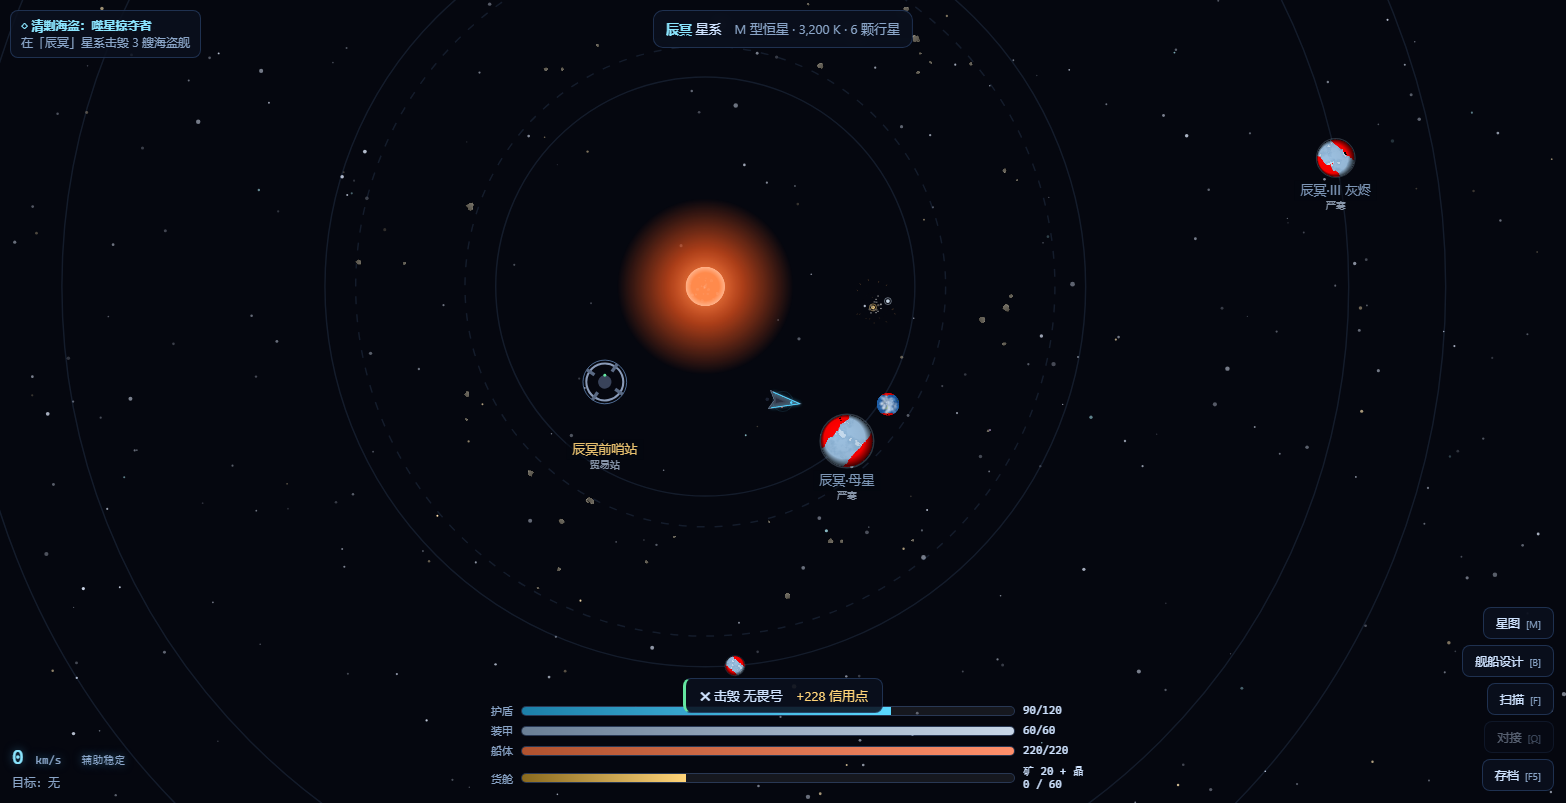
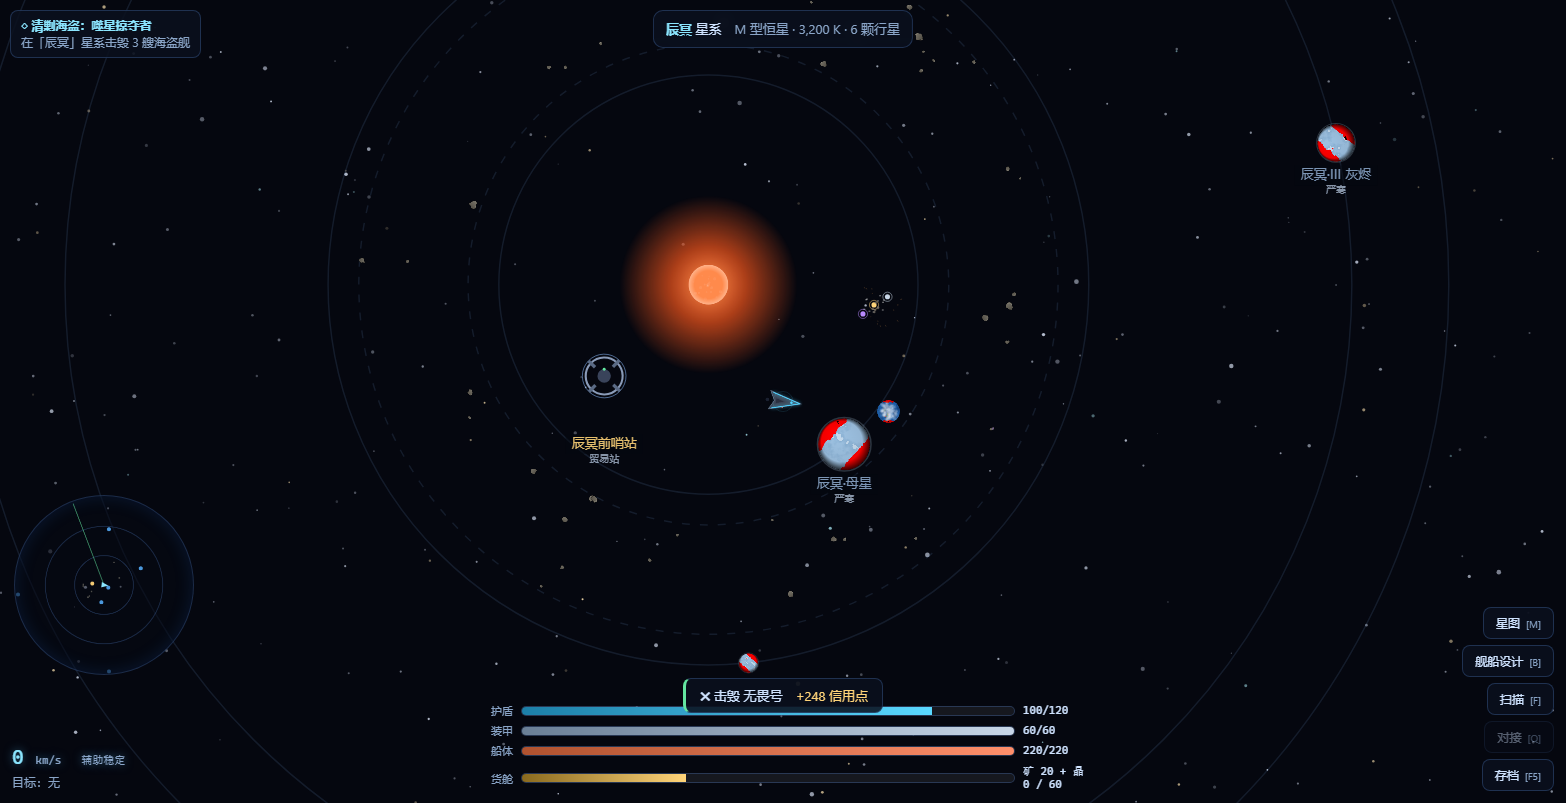
v1.1.1: 雷达小地图 + 海盗难度随科技成长；修复写入截断导致的 makeRockSprite 丢失回归

diff --git a/js/scenes/flight.js b/js/scenes/flight.js
@@ -134,6 +134,10 @@
       this.statsEl.appendChild(crow);
       this.statRefs.cargo = { fill: crow.querySelector('i'), val: crow.querySelector('.val') };
 
+      // 雷达小地图
+      this.radarCv = UI.el('radar');
+      this.radarCtx = this.radarCv ? this.radarCv.getContext('2d') : null;
+
       UI.clear(this.actionsEl);
       const acts = [
         ['星图', 'M', () => this.goMap()],
@@ -156,6 +160,7 @@
 
     showHUD(v) {
       ['hud-top', 'hud-left', 'hud-nav', 'hud-bottom', 'hud-actions'].forEach(id => UI.toggle(UI.el(id), v));
+      UI.toggle(UI.el('radar'), v);
       UI.hide(UI.el('center-progress'));
     }
 
@@ -199,6 +204,8 @@
       // 低血量红色暗角脉冲
       const vg = document.getElementById('vignette');
       if (vg) vg.style.opacity = ship.hp.hull < hmax * 0.32 ? (0.22 + 0.13 * Math.sin(this.t * 5)).toFixed(2) : '0';
+
+      this.drawRadar();
 
       // 顶部目标
       if (this.target && this.target.hp) {
@@ -579,7 +586,7 @@
           }
           // 海盗伏击
           if (this.gsys.danger > 0.2 && this.pirates.filter(x => x.hp.hull > 0).length < 5 && Math.random() < 0.3) {
-            const pk = S.Combat.makePirate(new S.Rand((Math.random() * 0xffffffff) >>> 0), this.pirates[0]?.faction || '碎星掠夺者', Math.min(3, this.p.techLevel));
+            const pk = S.Combat.makePirate(new S.Rand((Math.random() * 0xffffffff) >>> 0), this.pirates[0]?.faction || '碎星掠夺者', Math.max(1, Math.min(4, this.p.techLevel - 1)));
             pk.x = ship.x + M.randomRange(-600, 600); pk.y = ship.y + M.randomRange(-600, 600);
             pk.angle = Math.atan2(ship.y - pk.y, ship.x - pk.x);
             pk.ai = { state: 'hunt', strafe: 1, wander: 0, faction: pk.faction };
@@ -1183,7 +1190,7 @@
       if (this.target && this.target.isPlanet && this.target.ref === p) {
         ctx.strokeStyle = 'rgba(77,210,255,0.8)';
         ctx.lineWidth = 2;
-        ctx.setLineDash([10, 6]);
+        ctx.setLineDash([10 / zoom, 6 / zoom]);
         ctx.beginPath(); ctx.arc(x, y, R + 12, 0, M.TAU); ctx.stroke();
         ctx.setLineDash([]);
       }
@@ -1201,7 +1208,7 @@
 
     /** 小行星精灵预烘焙（避免每帧重建多边形路径，低配机收益大） */
     makeRockSprite(pts, size, rare) {
-      const res = 2; // 2x 烘焙：缩小绘制开销与内存，画质对小行星足够
+      const res = 2;
       const half = Math.ceil(size * 1.35 * res) + 2;
       const s = document.createElement('canvas');
       s.width = s.height = half * 2;
@@ -1381,6 +1388,60 @@
         ctx.restore();
         ctx.globalAlpha = 1;
       }
+    }
+
+    /** 雷达小地图 */
+    drawRadar() {
+      const rc = this.radarCtx;
+      if (!rc) return;
+      const W = 360, R = W / 2;
+      const range = 3200;
+      rc.clearRect(0, 0, W, W);
+      rc.strokeStyle = 'rgba(90,140,220,0.25)';
+      rc.lineWidth = 2;
+      rc.beginPath(); rc.arc(R, R, R * 0.66, 0, M.TAU); rc.stroke();
+      rc.beginPath(); rc.arc(R, R, R * 0.33, 0, M.TAU); rc.stroke();
+      // 扫描线
+      const sweep = (this.t * 1.1) % M.TAU;
+      rc.strokeStyle = 'rgba(99,230,160,0.5)';
+      rc.beginPath(); rc.moveTo(R, R); rc.lineTo(R + Math.cos(sweep) * (R - 4), R + Math.sin(sweep) * (R - 4)); rc.stroke();
+      const dot = (wx, wy, color, r2) => {
+        let dx = (wx - this.ship.x) / range * R, dy = (wy - this.ship.y) / range * R;
+        const dd = Math.hypot(dx, dy);
+        let alpha = 0.95;
+        if (dd > R - 5) { dx *= (R - 5) / dd; dy *= (R - 5) / dd; alpha = 0.4; }
+        rc.globalAlpha = alpha;
+        rc.fillStyle = color;
+        rc.beginPath(); rc.arc(R + dx, R + dy, r2, 0, M.TAU); rc.fill();
+        rc.globalAlpha = 1;
+      };
+      for (const p of this.sys.planets) {
+        const wp = this.planetWorldPos(p);
+        dot(wp.x, wp.y, p.isGas ? '#6a8ac8' : '#4fa0e8', p.isGas ? 6 : 4);
+      }
+      const stn = this.sys.station;
+      const sa2 = stn.angle + S.G.time * stn.orbitSpeed;
+      dot(Math.cos(sa2) * stn.orbitRadius, Math.sin(sa2) * stn.orbitRadius, '#ffd479', 4);
+      if (this.rocks.length) {
+        rc.fillStyle = 'rgba(150,145,130,0.5)';
+        for (let i = 0; i < this.rocks.length; i += 6) {
+          const rk = this.rocks[i];
+          if (rk.ore <= 0) continue;
+          const dx = (rk.x - this.ship.x) / range * R, dy = (rk.y - this.ship.y) / range * R;
+          if (dx * dx + dy * dy > (R - 5) * (R - 5)) continue;
+          rc.fillRect(R + dx - 1.5, R + dy - 1.5, 3, 3);
+        }
+      }
+      for (const pk of this.pirates) {
+        if (pk.hp.hull <= 0) continue;
+        dot(pk.x, pk.y, '#ff5a68', 5);
+      }
+      rc.save();
+      rc.translate(R, R);
+      rc.rotate(this.ship.angle);
+      rc.fillStyle = '#8be6ff';
+      rc.beginPath(); rc.moveTo(9, 0); rc.lineTo(-5, -5.5); rc.lineTo(-5, 5.5); rc.closePath(); rc.fill();
+      rc.restore();
     }
 
     onLeave() {

diff --git a/test/radar-check.js b/test/radar-check.js
@@ -1,0 +1,29 @@
+const { spawn } = require('child_process');
+const path = require('path');
+const EDGE = 'C:\\Program Files (x86)\\Microsoft\\Edge\\Application\\msedge.exe';
+const URL = 'file:///D:/BaiduNetdiskDownload/stellar-voyager/index.html?scene=flight&seed=20240721';
+const PORT = 9485;
+const profile = path.join(require('os').tmpdir(), 'sv-radar-' + Date.now());
+async function sleep(ms) { return new Promise(r => setTimeout(r, ms)); }
+async function getJson(url, tries) { for (let i = 0; i < (tries || 60); i++) { try { const res = await fetch(url); if (res.ok) return await res.json(); } catch (e) {} await sleep(300); } throw new Error('no cdp'); }
+(async () => {
+  const edge = spawn(EDGE, ['--headless=new','--disable-gpu','--disable-logging','--no-first-run','--no-default-browser-check','--window-size=1600,900','--remote-debugging-port=' + PORT,'--user-data-dir=' + profile, URL], { stdio: 'ignore' });
+  try {
+    const targets = await getJson('http://127.0.0.1:' + PORT + '/json');
+    const page = targets.find(t => t.type === 'page' && t.url.indexOf('stellar') >= 0);
+    const ws = new WebSocket(page.webSocketDebuggerUrl);
+    let msgId = 0; const pending = new Map();
+    ws.onmessage = (ev) => { const m = JSON.parse(ev.data); if (m.id && pending.has(m.id)) { pending.get(m.id)(m); pending.delete(m.id); } };
+    await new Promise((res, rej) => { ws.onopen = res; ws.onerror = rej; });
+    const send = (method, params) => new Promise((res) => { const id = ++msgId; pending.set(id, res); ws.send(JSON.stringify({ id, method, params: params || {} })); });
+    await send('Runtime.enable');
+    const ev = async (expr) => { const r = await send('Runtime.evaluate', { expression: expr, returnByValue: true }); const v = r.result && r.result.result; return v ? (v.value !== undefined ? v.value : v.description) : 'EXC'; };
+    for (let i = 0; i < 60; i++) { const rr = await ev('typeof STARFALL !== "undefined" && !!STARFALL.G.engine'); if (rr === true) break; await sleep(400); }
+    await sleep(2000);
+    // 雷达画布像素统计：非透明像素数应 > 500（环+扫描线+点）
+    console.log('RADAR:', await ev('(function(){ var cv = document.getElementById("radar"); var cx = cv.getContext("2d"); var img = cx.getImageData(0, 0, cv.width, cv.height).data; var n = 0; for (var i = 3; i < img.length; i += 16) if (img[i] > 30) n++; return "非空采样=" + n + " 可见=" + (document.getElementById("radar").offsetParent !== null || document.getElementById("radar").style.display !== "none") + " 尺寸=" + cv.offsetWidth + "x" + cv.offsetHeight; })()'));
+    console.log('LOOP:', await ev('JSON.stringify((window.__loopErrs || []).slice(0, 2))'));
+    ws.close();
+  } finally { edge.kill(); try { require('fs').rmSync(profile, { recursive: true, force: true }); } catch (e) {} }
+  process.exit(0);
+})().catch(e => { console.error('ERR:', e.message); process.exit(2); });

diff --git a/js/scenes/combat.js b/js/scenes/combat.js
@@ -164,10 +164,13 @@
   function spawnPirates(system, galaxySys, player, techCap) {
     const list = [];
     if (!galaxySys || galaxySys.danger <= 0) return list;
-    const n = galaxySys.danger > 0.6 ? 3 : (galaxySys.danger > 0.3 ? 2 : 1);
+    const pt = Math.max(1, Math.min(5, techCap || 1));
+    // 数量随危险度与玩家科技提升（后期舰队更庞大）
+    const n = Math.min(5, (galaxySys.danger > 0.6 ? 3 : (galaxySys.danger > 0.3 ? 2 : 1)) + (pt >= 4 ? 1 : 0));
     const rng = new S.Rand((galaxySys.seed ^ 0x5f3759df) >>> 0);
     const faction = S.Names.pirateFaction(rng);
-    const tier = Math.min(3, 1 + Math.floor(galaxySys.danger * 2.5));
+    // 等级随星系危险度与玩家科技共同成长：玩家到 IV 级时海盗不掉队
+    const tier = Math.min(4, Math.max(1 + Math.floor(galaxySys.danger * 2.5), pt - 1));
     for (let i = 0; i < n; i++) {
       const ship = makePirate(rng, faction, tier);
       // 出生在带内或外环
@@ -188,17 +191,21 @@
   }
 
   function makePirate(rng, faction, tier) {
-    const comps = ['rea' + tier, 'thr' + tier, 'cpu' + tier, 'sen' + tier];
-    if (tier >= 2) comps.push('hyp' + tier);
-    const kin = 'kin_s' + Math.min(tier, 2);
-    comps.push(kin, kin, 'pd_s' + Math.min(tier, 2));
-    comps.push('shd' + Math.min(tier, 2), 'arm' + Math.min(tier, 2));
-    if (tier >= 3) comps.push('kin_m' + Math.min(tier, 4), 'shd3');
-    const design = { id: 'pirate', name: faction, hullId: 'corvette', comps };
+    const t = Math.min(4, Math.max(1, tier));
+    // IV 级海盗升级为驱逐舰舰体
+    const hullId = t >= 4 ? 'destroyer' : 'corvette';
+    const comps = ['rea' + (t >= 4 ? 5 : t), 'thr' + t, 'cpu' + t, 'sen' + t, 'hyp' + t];
+    const kin = 'kin_s' + t;
+    if (hullId === 'corvette') comps.push(kin, kin); else comps.push(kin);
+    comps.push('pd_s' + t);
+    comps.push('shd' + Math.min(t, 3), 'arm' + Math.min(t, 3));
+    if (t >= 3) comps.push('mis_m' + Math.min(t, 5));
+    if (t >= 4) { comps.push('ene_m4', 'aux4'); }
+    const design = { id: 'pirate', name: faction, hullId, comps };
     const ship = S.makeShip(design, S.Names.ship(rng));
     ship.isPirate = true;
     ship.faction = faction;
-    ship.bounty = Math.round(60 + tier * 90 + rng.range(0, 80));
+    ship.bounty = Math.round(60 + t * 110 + rng.range(0, 80));
     return ship;
   }
 

diff --git a/css/style.css b/css/style.css
@@ -250,3 +250,8 @@ canvas#game { position: fixed; inset: 0; display: block; cursor: crosshair; }
 /* ===== 低血量暗角 ===== */
 .vignette { position: absolute; inset: 0; pointer-events: none; z-index: 8;
   box-shadow: inset 0 0 180px 60px rgba(255,40,50,0.55); transition: opacity .12s linear; }
+
+/* ===== 雷达小地图 ===== */
+.radar { position: absolute; left: 14px; bottom: 128px; width: 180px; height: 180px;
+  border-radius: 50%; border: 1px solid var(--line); background: rgba(6,10,20,0.55);
+  box-shadow: 0 0 18px rgba(40,120,220,0.15) inset; }

diff --git a/index.html b/index.html
@@ -45,6 +45,9 @@
 
   <!-- 低血量暗角 -->
   <div id="vignette" class="vignette" style="opacity: 0;"></div>
+
+  <!-- 雷达小地图 -->
+  <canvas id="radar" class="radar" width="360" height="360"></canvas>
   <div id="modal-root" class="modal-root"></div>
   <div id="tooltip" class="tooltip hidden"></div>
 </div>

diff --git a/README.md b/README.md
@@ -225,6 +225,11 @@ qa/        无头浏览器截图
 | test/perf-probe.js（性能基线） | 小行星带满屏岩石场景的 FPS / 单帧渲染耗时 / 行星贴图冷生成耗时，优化前后可对比 | ✔ FPS 60 满帧 · render ≈0.6ms |
 | 无头截图 + 像素探针 | 三场景渲染验证（亮度/色相直方图/HUD 文本） | ✔ |
 
+### v1.1.1 追加（雷达 × 平衡）
+- **雷达小地图**：左下角圆形雷达，显示行星/空间站/敌舰/小行星带相对位置与扫描线，量程外目标钳制到边缘指示方向
+- **海盗难度成长**：海盗等级随玩家科技等级共同提升（IV 级科技时海盗升级为驱逐舰舰体+反物质武器），数量上限 5；采矿伏击强度同步挂钩——后期不再无脑碾压
+- 教训入库：大文件写入截断导致方法丢失的回归被 CDP 套件当场抓获并修复
+
 ### v1.1.0 优化发布（性能 × 打击感 × QoL）
 **性能**
 - 小行星精灵预烘焙：带内最多 90 块岩石不再每帧重建多边形路径（低配机收益最大）
